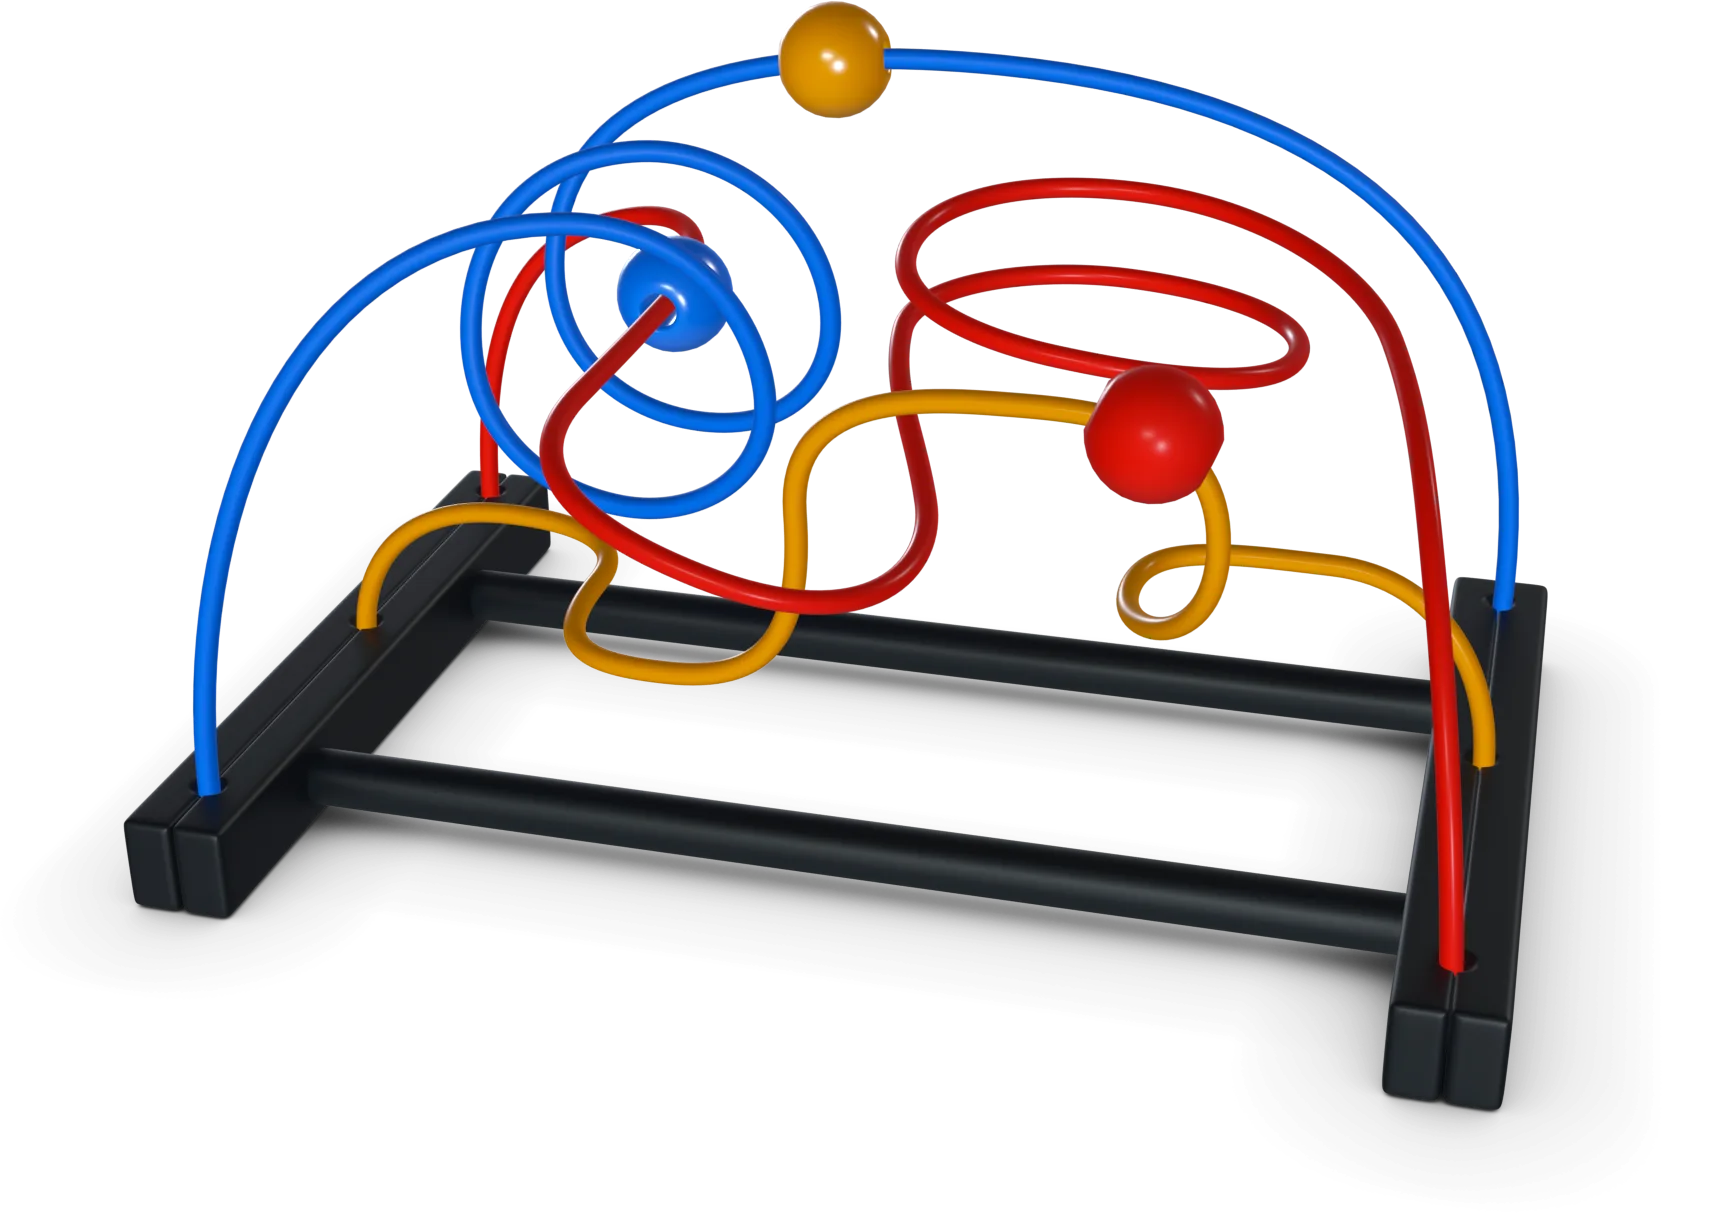
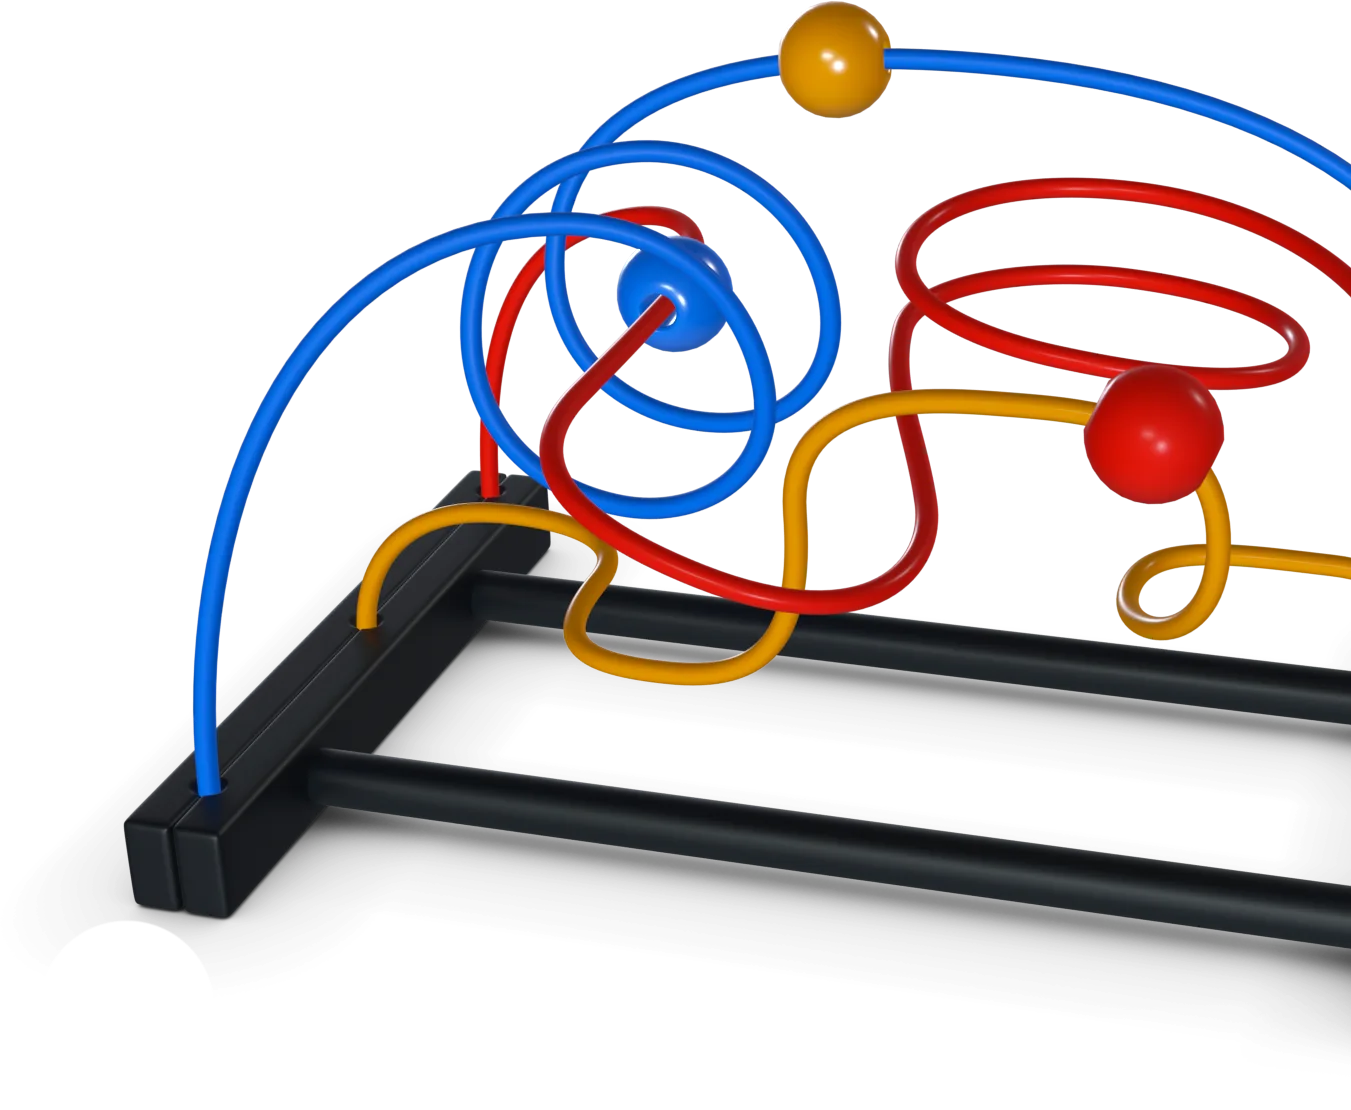
Bead maze thumb

diff --git a/src/routes/home.vue b/src/routes/home.vue
@@ -1,4 +1,4 @@
-<script setup>
+<script setup lang="ts">
 import Card from '../components/Card.vue'
 import Icon from '../components/Icon/Icon.vue'
 import CrowCard from '../components/Crow/CrowCard.vue'
@@ -45,7 +45,7 @@ import PlayOverlay from '../components/PlayOverlay.vue'
       <Card pressable link tag="article">
         <div class="relative p-8 pb-0 pr-0 cursor-default">
           <img
-            class="object-contain object-right-top h-72"
+            class="object-contain object-right h-72 ml-[-2rem] max-w-none w-[calc(100%+2rem)]"
             src="/assets/bead-maze-thumb.webp"
             draggable="false"
           />
